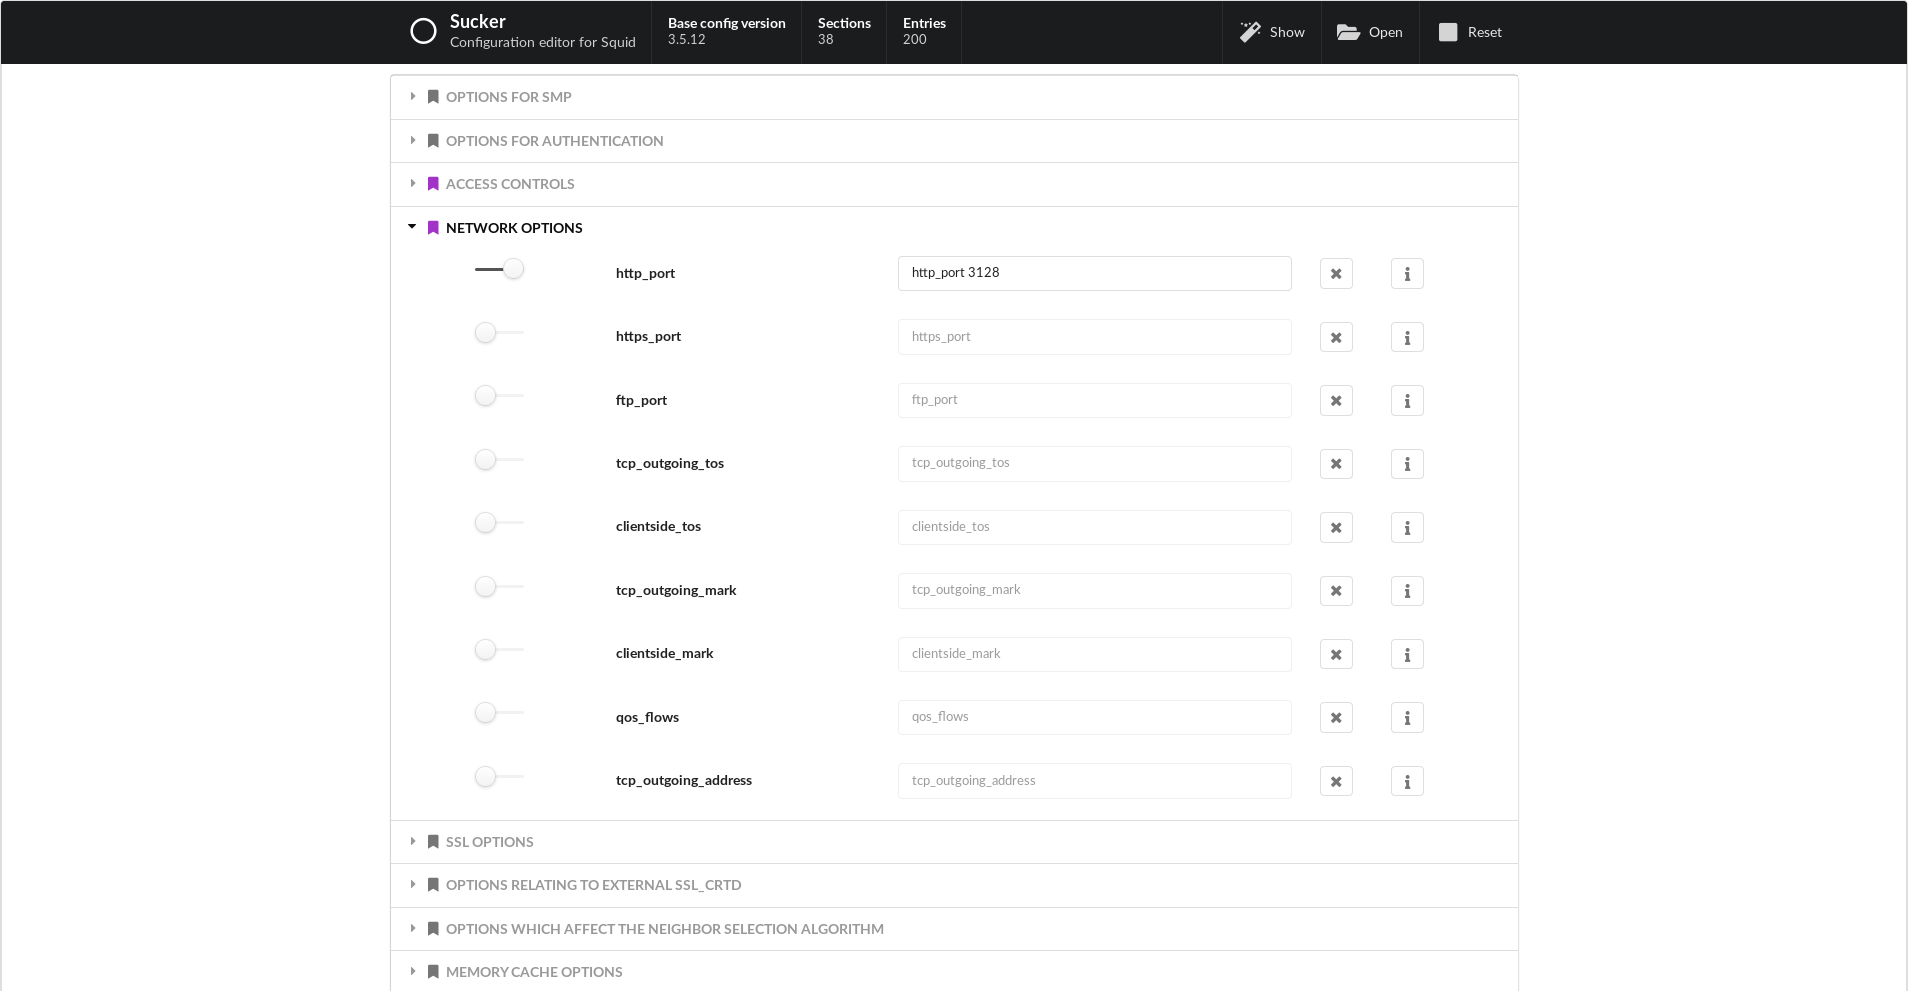
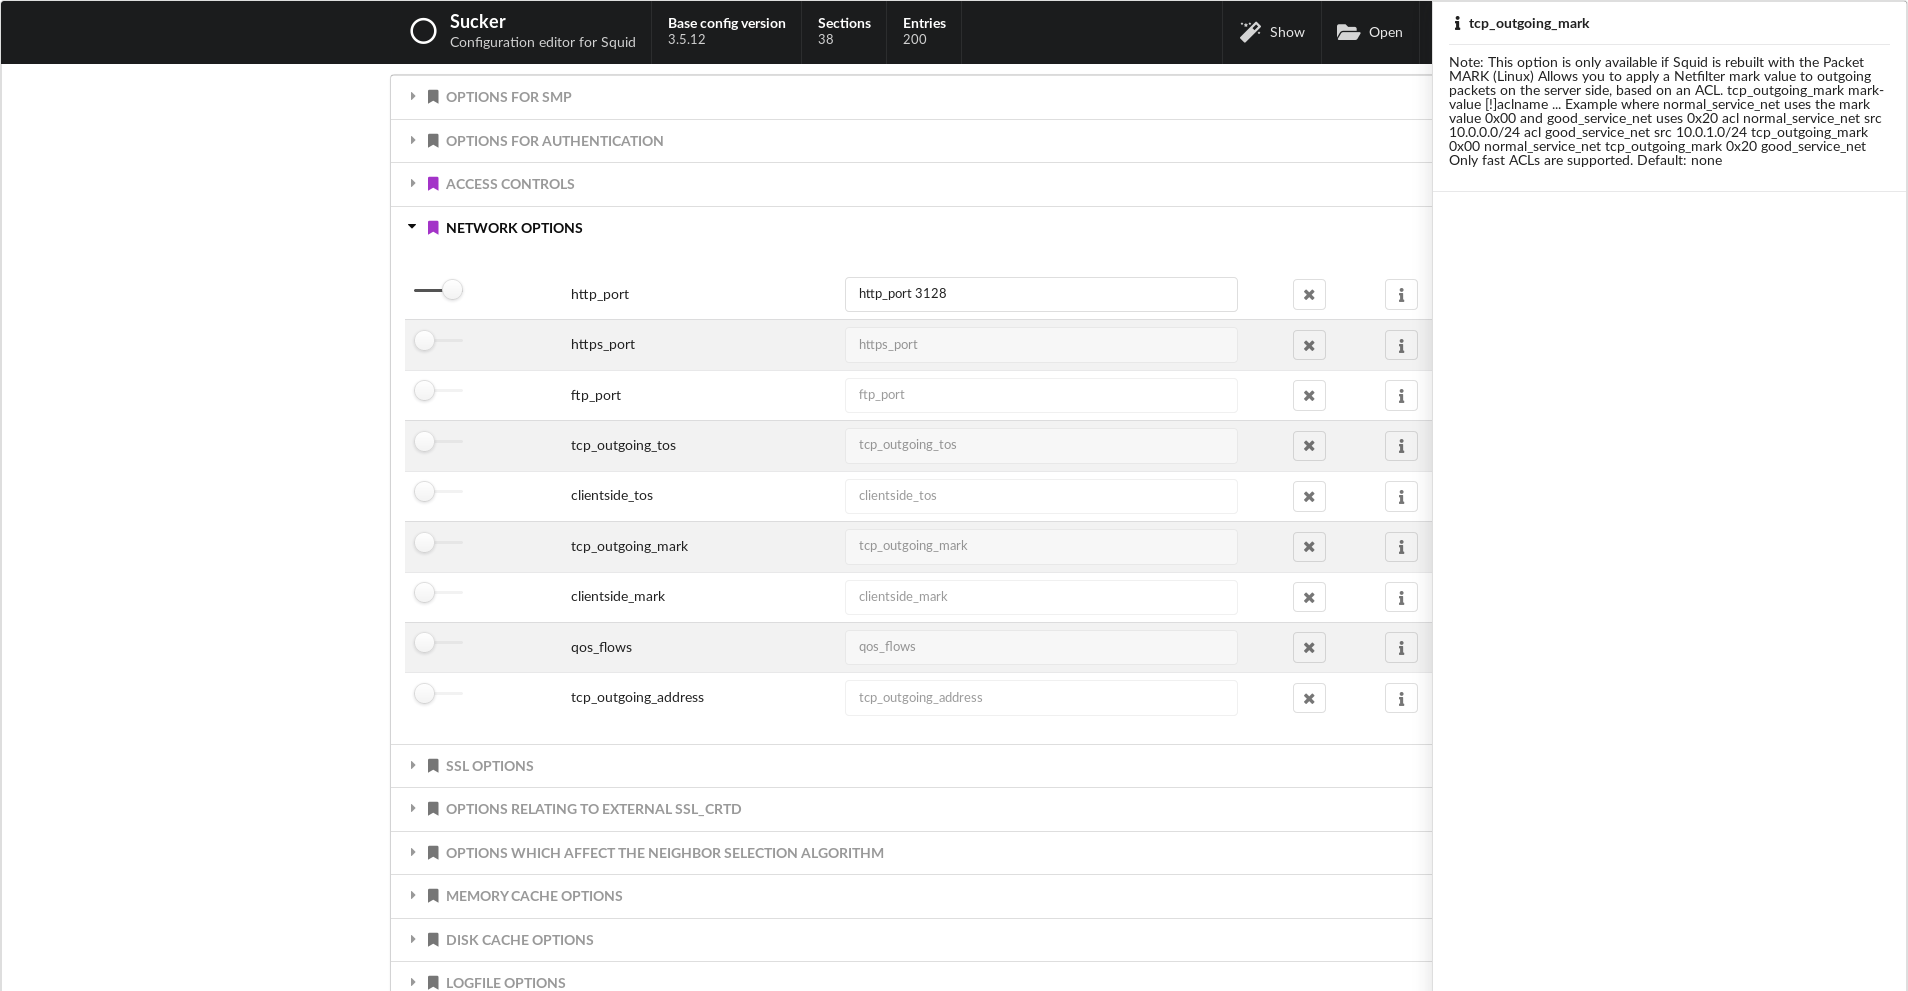
Layout update

diff --git a/sucker.jsx b/sucker.jsx
@@ -1,5 +1,5 @@
 import React, { Component } from 'react';
-import { Accordion, Button, Checkbox, Container, Dimmer, Divider, Form, Grid, Header, Icon, Input, Menu, Message, Modal, Segment, SegmentGroup, Sidebar, TextArea, Confirm } from 'semantic-ui-react';
+import { Accordion, Button, Checkbox, Confirm, Container, Dimmer, Divider, Form, Header, Icon, Input, Menu, Message, Modal, Segment, SegmentGroup, Sidebar, Table, TextArea } from 'semantic-ui-react';
 import * as data from './config.json';
 
 var dataOutput = [data.sections.length];
@@ -124,25 +124,14 @@ export default class Sucker extends Component {
           }
 
           sectionContent[n] = (
-            <Grid.Row key={'gridRowEntry' + gridRowKey++} textAlign='left' verticalAlign='middle' columns={7}>
-              <Grid.Column width={1} />
-              <Grid.Column width={1}>
-                {defaultChecked}
-              </Grid.Column>
-              <Grid.Column width={1} />
-              <Grid.Column width={4}>
-                <p><strong>{data.entry[n]}</strong></p>
-              </Grid.Column>
-              <Grid.Column width={6}>
-                {inputForm}
-              </Grid.Column>
-              <Grid.Column width={1}>
-                <Button icon='delete' basic compact />
-              </Grid.Column>
-              <Grid.Column width={1}>
-                <Button value={helpKey++} icon='info' basic compact active={active} onClick={handleShowClick} />
-              </Grid.Column>
-            </Grid.Row >
+            //            <Grid.Row key={'gridRowEntry' + gridRowKey++} textAlign='left' verticalAlign='middle' columns={7}>
+            <Table.Row>
+              <Table.Cell>{defaultChecked}</Table.Cell>
+              <Table.Cell width={4}>{data.entry[n]}</Table.Cell>
+              <Table.Cell width={6}> {inputForm}</Table.Cell>
+              <Table.Cell textAlign='center'><Button icon='delete' basic compact /></Table.Cell>
+              <Table.Cell><Button value={helpKey++} icon='info' basic compact active={active} onClick={handleShowClick} /></Table.Cell>
+            </Table.Row>
           );
           n++;
         }
@@ -168,9 +157,11 @@ export default class Sucker extends Component {
             </Accordion.Title>
             <Accordion.Content active={activeIndex === sectionIndex}>
               {sslSectionMessage}
-              <Grid>
-                {sectionContent}
-              </Grid>
+              <Table striped compact basic='very'>
+                <Table.Body>
+                  {sectionContent}
+                </Table.Body>
+              </Table>
             </Accordion.Content>
           </Container>
         );
@@ -199,21 +190,18 @@ export default class Sucker extends Component {
             width='very wide'
           >
             <Menu.Item>
-              <Header icon as='h3' textAlign='center'>
-                <Icon name='info' />
-                <Header.Content>{data.entry[this.state.helpId - 1000]}</Header.Content>
-              </Header>
-              <Divider />
-              <Container text textAlign='justified'>
-                <Grid>
-                  <Grid.Row columns={2}>
-                    <Grid.Column width={10}>
-                      {data.help[(this.state.helpId - 1000)]}
-                    </Grid.Column>
-                    <Grid.Column />
-                  </Grid.Row>
-                </Grid>
-              </Container>
+              <Table basic='very'>
+                <Table.Header>
+                  <Table.Row>
+                    <Table.HeaderCell> <Icon name='info' />{data.entry[this.state.helpId - 1000]}</Table.HeaderCell>
+                  </Table.Row>
+                </Table.Header>
+                <Table.Body>
+                  <Table.Row>
+                    <Table.Cell>{data.help[(this.state.helpId - 1000)]}</Table.Cell>
+                  </Table.Row>
+                </Table.Body>
+              </Table>
             </Menu.Item>
           </Sidebar>
 
@@ -249,7 +237,7 @@ export default class Sucker extends Component {
                       <Menu.Item as='a'><Icon name="magic" size='large' onClick={this.handleConfigPreview} />Show</Menu.Item>
                       <Menu.Item as='a'><Icon name="folder open" size='large' />Open</Menu.Item>
                       <Menu.Item as='a'><Icon name="stop" size='large' onClick={this.confirm} />Reset
-                      <Confirm header='Reset current configuration to default settings' open={this.state.confirm} onCancel={this.confirmClose} onConfirm={this.confirmClose} />
+                         <Confirm header='Reset current configuration to default settings' open={this.state.confirm} onCancel={this.confirmClose} onConfirm={this.confirmClose} />
                       </Menu.Item>
                     </Menu.Menu>
                   </Container>
@@ -267,18 +255,6 @@ export default class Sucker extends Component {
           </Sidebar.Pusher>
         </Sidebar.Pushable>
 
-        <Dimmer inverted active={active} onClickOutside={this.handleClose} page>
-          <Header size='huge' icon color={primaryAccentColor}>
-            <Icon name='circle outline' color={primaryAccentColor} />
-            Sucker
-            <Header.Subheader>a configuration editor for Squid</Header.Subheader>
-            <Header.Subheader>ver.0.1 (deep beta)</Header.Subheader>
-          </Header>
-          <Header size='small' color='grey'>Built with Flask, Python, React and Semantic-UI</Header>
-          <Header size='small' color='grey'>Created in Sydney with </Header>
-          <Icon color='pink' size='big' name='heart' />
-        </Dimmer>
-
         <Modal
           dimmer='inverted'
           open={open}
@@ -293,11 +269,22 @@ export default class Sucker extends Component {
             </Form>
           </Modal.Content>
           <Modal.Actions>
-            <Button negative size='large' onClick={this.close}>
-              close
-            </Button>
+            <Button negative size='large' onClick={this.close}>close</Button>
           </Modal.Actions>
         </Modal>
+
+        <Dimmer inverted active={active} onClickOutside={this.handleClose} page>
+          <Header as='h1' icon color={primaryAccentColor}>
+            <Icon name='circle outline' color={primaryAccentColor} />Sucker
+            <Header.Subheader>ver.0.1 (deep beta)</Header.Subheader>
+          </Header>
+          <Header color='grey'>
+            <p>configuration editor for <a href="http://www.squid-cache.org/">Squid</a> caching proxy</p>
+            <p><Icon name='github' />Github: <a href="https://github.com/itworks99/sucker">itworks99/sucker</a></p>
+            <p>Built with Flask, Python, React and Semantic-UI</p>
+            <p>Created in Sydney with  <Icon color='pink' name='heart' /></p>
+          </Header>
+        </Dimmer>
       </div >
     )
   }
